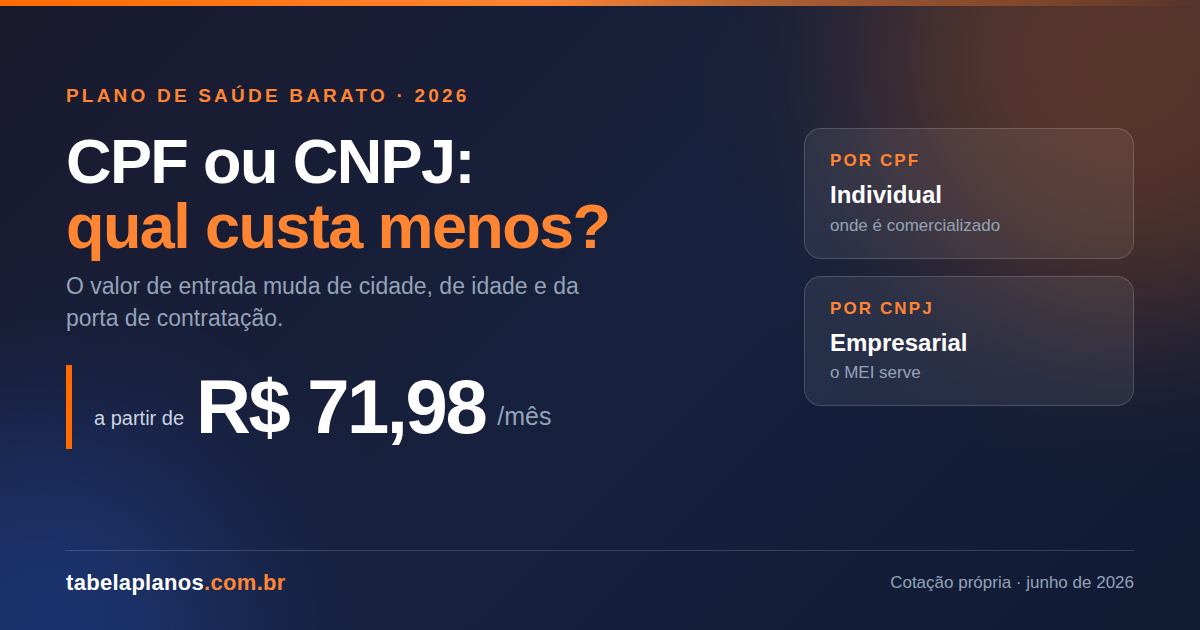
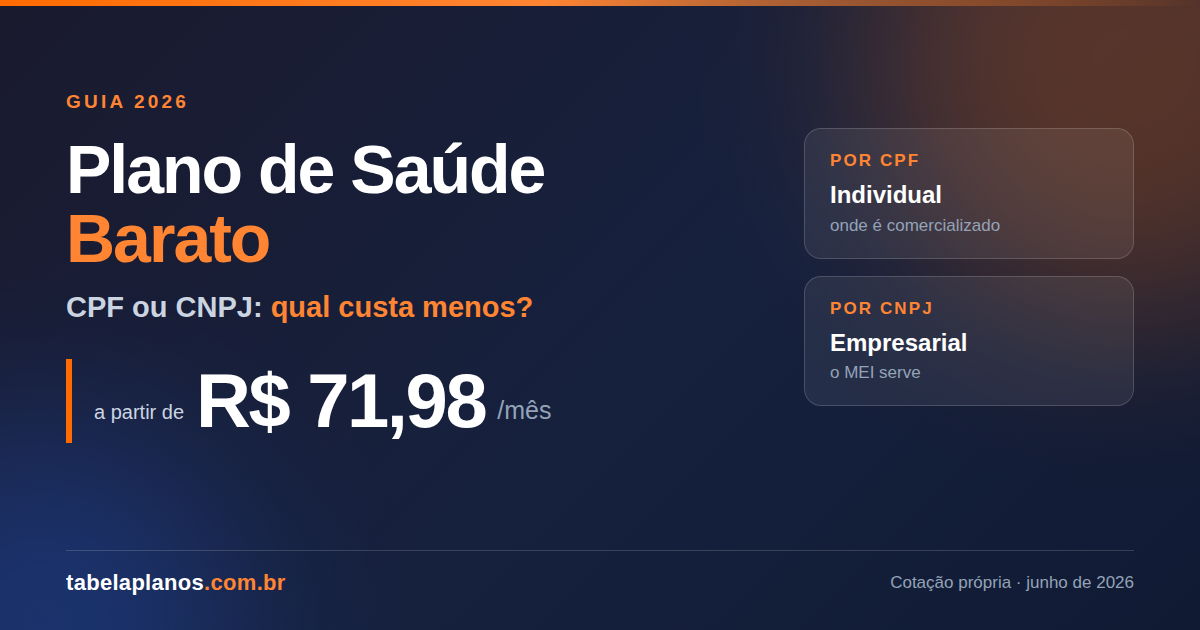
Inverte a hierarquia da capa: keyword em destaque, gancho no subtitulo
- H1 passa a ser 'Plano de Saude Barato', com 'Barato' em laranja.
- 'CPF ou CNPJ: qual custa menos?' desce para subtitulo, com peso maior que o
  subtitulo anterior, porque agora e ele que carrega o gancho.
- Etiqueta superior vira 'Guia 2026' — manter a keyword ali repetiria o titulo.
- Segue 1200x630 reais e renderizada por codigo, sem IA em numero.

Claude-Session: https://claude.ai/code/session_01GXzEWXqTWQmyUFe96NzMz1

diff --git a/artigos/imagens/capa.html b/artigos/imagens/capa.html
@@ -14,9 +14,10 @@ body{width:1200px;height:630px;overflow:hidden;
 .left{flex:1 1 0;min-width:0}
 .eyebrow{font-size:19px;font-weight:bold;color:#ff8533;letter-spacing:3.2px;
  text-transform:uppercase;margin-bottom:22px}
-h1{font-size:63px;font-weight:bold;line-height:1.04;letter-spacing:-1.6px;margin-bottom:10px}
+h1{font-size:68px;font-weight:bold;line-height:1.02;letter-spacing:-2px;margin-bottom:16px}
 h1 .or{color:#ff8533}
-.sub{font-size:23px;color:#94a3b8;line-height:1.42;margin-bottom:30px;max-width:560px}
+.sub{font-size:29px;font-weight:bold;color:#cbd5e1;line-height:1.3;margin-bottom:32px;max-width:600px}
+.sub .q{color:#ff8533}
 .pricebox{display:inline-flex;align-items:flex-end;gap:12px;
  border-left:6px solid #ff6b00;padding:6px 0 6px 22px}
 .plabel{font-size:20px;color:#cbd5e1;margin-bottom:13px}
@@ -39,9 +40,9 @@ h1 .or{color:#ff8533}
 <div class="rule"></div><div class="glow g1"></div><div class="glow g2"></div>
 <div class="wrap">
   <div class="left">
-    <div class="eyebrow">Plano de Saúde Barato &middot; 2026</div>
-    <h1>CPF ou CNPJ:<br><span class="or">qual custa menos?</span></h1>
-    <div class="sub">O valor de entrada muda de cidade, de idade e da porta de contratação.</div>
+    <div class="eyebrow">Guia 2026</div>
+    <h1>Plano de Saúde<br><span class="or">Barato</span></h1>
+    <div class="sub">CPF ou CNPJ: <span class="q">qual custa menos?</span></div>
     <div class="pricebox">
       <div class="plabel">a partir de</div>
       <div class="pval">R$&nbsp;71,98</div>
